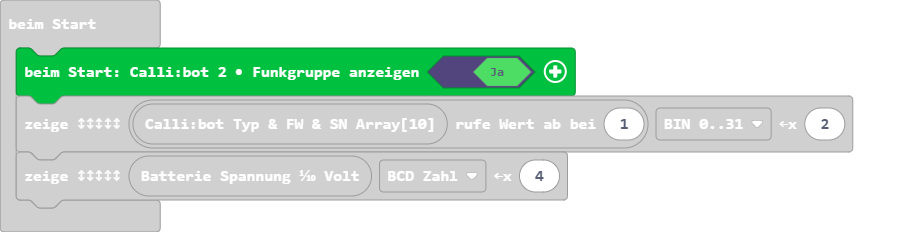
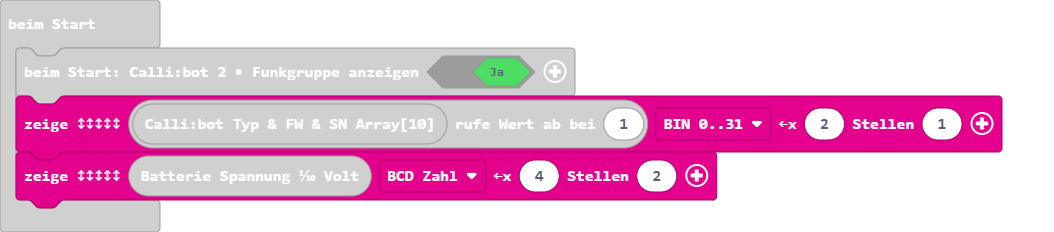
Aktualisiere pxt.json, main.blocks, main.ts

diff --git a/main.ts b/main.ts
@@ -81,7 +81,7 @@ btf.onReceivedDataChanged(function (receivedData, changed) {
     }
     receiver.setFunktion(receiver.eFunktion.ng, receiver.eTimeoutDisable.nicht)
     Ultraschall_Sensor_Knopf_A = false
-    cb2.fahreJoystick(btf.btf_receivedBuffer19(), 50)
+    cb2.fahreJoystick(btf.btf_receivedBuffer19())
     cb2.fahrplanBuffer5Strecken(btf.btf_receivedBuffer19(), btf.e3aktiviert.m1)
     cb2.fahrplanBuffer2x2Motoren(btf.btf_receivedBuffer19(), btf.e3aktiviert.ma)
     if (btf.isBetriebsart(receivedData, btf.e0Betriebsart.p2Fahrplan)) {
@@ -119,7 +119,7 @@ let Ultraschall_Sensor_Knopf_A = false
 let Stop = 0
 cb2.beimStart()
 btf.zeigeBIN(cb2.readVersionArray()[1], btf.ePlot.bin, 2)
-btf.zeigeBIN(cb2.readSpannung(), btf.ePlot.bcd, 4)
+btf.zeigeBIN(cb2.readSpannung(), btf.ePlot.bcd, 4, 2)
 basic.forever(function () {
     cb2.buffer_raiseAbstandEvent(btf.btf_receivedBuffer19())
     cb2.buffer_raiseSpurEvent(btf.btf_receivedBuffer19())
